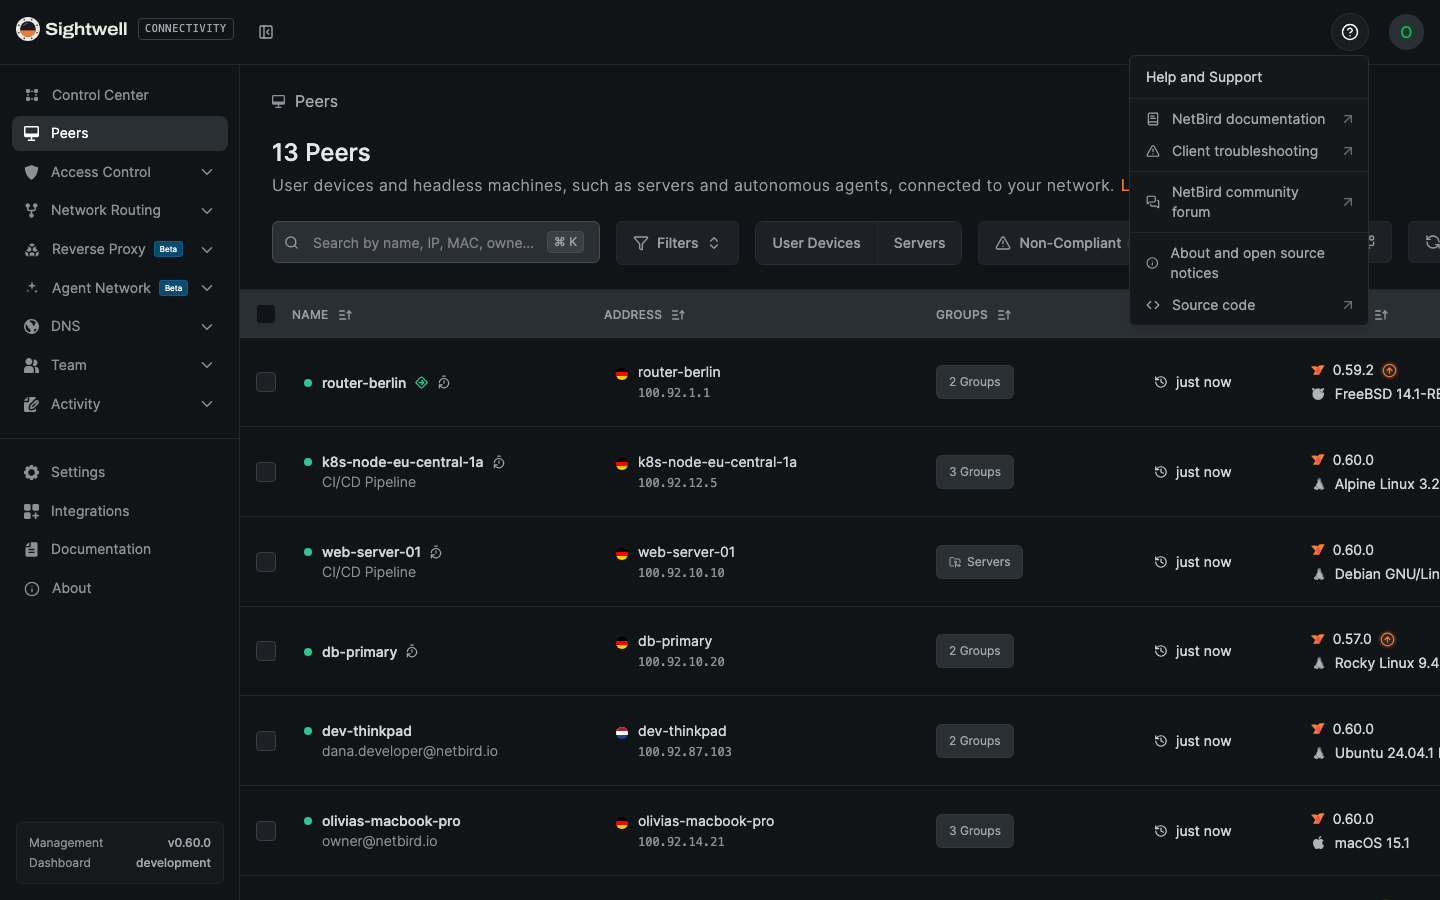
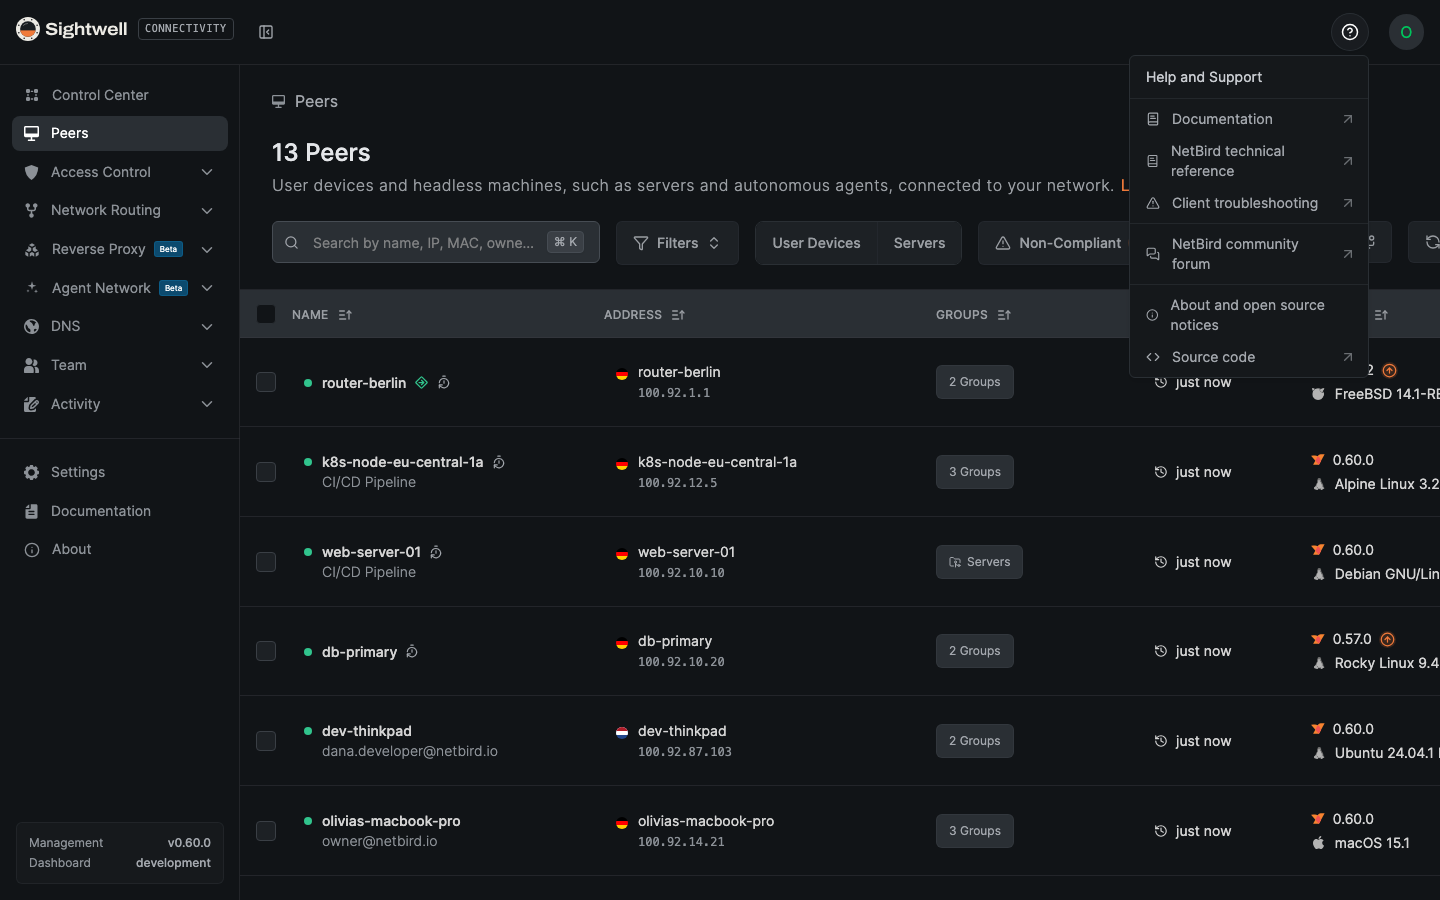
docs/helm: dashboard image v2.95.0-sightwell.3

Changed region(s): [[0.7812, 0.1244, 0.9375, 0.4044], [0.0, 0.56, 0.0938, 0.6222], [0.9062, 0.4044, 0.9375, 0.4356]]

diff --git a/docs/sightwell/RELEASE.md b/docs/sightwell/RELEASE.md
@@ -178,7 +178,11 @@ kubectl -n <namespace> get pod -l <selector> -o jsonpath='{.items[0].status.cont
 
 | | |
 | --- | --- |
-| Current fork release | `v2.95.0-sightwell.2` (commit `b5b15d87`, built 2026-10-25 by run 40172605075): branded loading spinner, dependency security fixes |
+| Current fork release | `v2.95.0-sightwell.3` (commit `a948eff7`, built 2026-10-25 by run 40184090372): fork-aware version block linking to our releases, `SIGHTWELL_DOCS_URL`, Integrations hidden by default |
+| → standard | `ghcr.io/minicloud-io/sightwell-netbird-dashboard:v2.95.0-sightwell.3@sha256:6fe9cc120d7173352c8228f43a747e37faa71d72cdb5c3f2e54ebe0556fb9b0c` |
+| → rootless | `ghcr.io/minicloud-io/sightwell-netbird-dashboard:v2.95.0-sightwell.3-rootless@sha256:4fe5ba369bd97fd3c2502bad481ae1c503c3b3c01588f9742b506663f7ea696f` |
+| → ubi | `ghcr.io/minicloud-io/sightwell-netbird-dashboard:v2.95.0-sightwell.3-ubi@sha256:01ad2a4edd11a8ed16ca550e6b997b080f77e24bd5c37c6b9be8fb54104af5fd` |
+| Previous fork release | `v2.95.0-sightwell.2` (commit `b5b15d87`, run 40172605075): branded loading spinner, dependency security fixes |
 | → standard | `ghcr.io/minicloud-io/sightwell-netbird-dashboard:v2.95.0-sightwell.2@sha256:e933bba506f8a226f4e3ba9751f59fd94b68c3d2f27c360353ea9b3be4277c8e` |
 | → rootless | `ghcr.io/minicloud-io/sightwell-netbird-dashboard:v2.95.0-sightwell.2-rootless@sha256:d8f90643efed6cf417a9ecb21934bf3c6b86a24fe2458e5b347bf2efc8eabf6f` |
 | → ubi | `ghcr.io/minicloud-io/sightwell-netbird-dashboard:v2.95.0-sightwell.2-ubi@sha256:ede5482c0b0baa527d4813a8f697b4f42647d3661f367210a7d035943d668f9a` |

diff --git a/deploy/helm/sightwell-connectivity/README.md b/deploy/helm/sightwell-connectivity/README.md
@@ -39,8 +39,8 @@ server:
       trustedHTTPProxiesCount: 1   # one ingress hop in front of the server
 dashboard:
   image:
-    tag: v2.95.0-sightwell.2-rootless
-    digest: sha256:d8f90643efed6cf417a9ecb21934bf3c6b86a24fe2458e5b347bf2efc8eabf6f
+    tag: v2.95.0-sightwell.3-rootless
+    digest: sha256:4fe5ba369bd97fd3c2502bad481ae1c503c3b3c01588f9742b506663f7ea696f
 ingress:
   className: nginx
   annotations:
